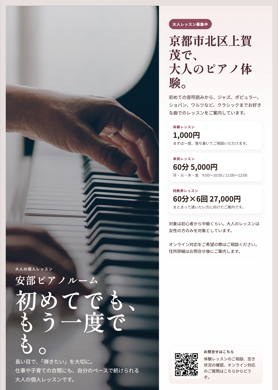
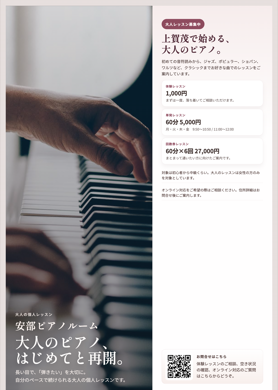
Tighten ad copy line breaks

diff --git a/flyer/abe_piano_ads_2026/abe_piano_ad_concept_02_restart.html b/flyer/abe_piano_ads_2026/abe_piano_ad_concept_02_restart.html
@@ -19,7 +19,7 @@
     .concept-two {
       height: 100%;
       display: grid;
-      grid-template-columns: 0.92fr 0.68fr;
+      grid-template-columns: 0.88fr 0.72fr;
       background: #f7f0ee;
     }
 
@@ -66,8 +66,9 @@
     }
 
     .concept-two .photo-copy .display-title {
-      font-size: 146px;
-      line-height: 0.98;
+      font-size: 96px;
+      line-height: 1.06;
+      letter-spacing: -0.01em;
       color: #fffdfc;
       text-shadow: 0 12px 34px rgba(0, 0, 0, 0.18);
     }
@@ -75,16 +76,16 @@
     .concept-two .quote {
       margin: 0;
       max-width: 820px;
-      font-size: 34px;
-      line-height: 1.72;
+      font-size: 31px;
+      line-height: 1.66;
       color: rgba(255, 247, 243, 0.9);
     }
 
     .concept-two .detail-panel {
-      padding: 86px 64px 74px;
+      padding: 86px 60px 74px;
       display: grid;
       grid-template-rows: auto auto auto auto auto 1fr;
-      gap: 26px;
+      gap: 22px;
       background:
         linear-gradient(180deg, rgba(142, 75, 94, 0.08) 0%, rgba(255, 255, 255, 0.82) 32%),
         #fffaf8;
@@ -105,15 +106,15 @@
     .concept-two .panel-title {
       margin: 0;
       font-family: var(--font-display);
-      font-size: 78px;
-      line-height: 1.18;
+      font-size: 60px;
+      line-height: 1.22;
       color: #512b38;
     }
 
     .concept-two .panel-copy {
       margin: 0;
-      font-size: 29px;
-      line-height: 1.75;
+      font-size: 25px;
+      line-height: 1.62;
       color: #4a3936;
     }
 
@@ -133,7 +134,7 @@
     }
 
     .concept-two .price-label {
-      font-size: 22px;
+      font-size: 20px;
       font-weight: 700;
       letter-spacing: 0.08em;
       color: #8e4b5e;
@@ -141,7 +142,7 @@
 
     .concept-two .price-value {
       margin: 0;
-      font-size: 48px;
+      font-size: 38px;
       line-height: 1.18;
       color: #352724;
       font-weight: 700;
@@ -149,8 +150,8 @@
 
     .concept-two .price-note {
       margin: 0;
-      font-size: 24px;
-      line-height: 1.6;
+      font-size: 22px;
+      line-height: 1.52;
       color: rgba(74, 57, 54, 0.86);
     }
 
@@ -161,10 +162,10 @@
 
     .concept-two .facts p {
       margin: 0;
-      padding: 16px 0;
+      padding: 14px 0;
       border-bottom: 1px solid rgba(142, 75, 94, 0.14);
-      font-size: 27px;
-      line-height: 1.65;
+      font-size: 23px;
+      line-height: 1.54;
     }
 
     .concept-two .qr-card {
@@ -185,14 +186,14 @@
         <div class="photo-copy">
           <p class="art-kicker">大人の個人レッスン</p>
           <h1 class="brand-name">安部ピアノルーム</h1>
-          <h2 class="display-title">初めてでも、<br>もう一度でも。</h2>
-          <p class="quote">長い目で、「弾きたい」を大切に。<br>仕事や子育ての合間にも、自分のペースで続けられる大人の個人レッスンです。</p>
+          <h2 class="display-title">大人のピアノ、<br>はじめてと再開。</h2>
+          <p class="quote">長い目で、「弾きたい」を大切に。<br>自分のペースで続けられる大人の個人レッスンです。</p>
         </div>
       </section>
 
       <aside class="detail-panel">
         <div class="badge">大人レッスン募集中</div>
-        <h2 class="panel-title">京都市北区上賀茂で、<br>大人のピアノ体験。</h2>
+        <h2 class="panel-title">上賀茂で始める、<br>大人のピアノ。</h2>
         <p class="panel-copy">初めての音符読みから、ジャズ、ポピュラー、ショパン、ワルツなど、クラシックまでお好きな曲でのレッスンをご案内しています。</p>
 
         <section class="price-stack">

diff --git a/flyer/abe_piano_ads_2026/abe_piano_ad_concept_03_gentle-pace.html b/flyer/abe_piano_ads_2026/abe_piano_ad_concept_03_gentle-pace.html
@@ -45,14 +45,15 @@
     }
 
     .concept-three .display-title {
-      font-size: 114px;
+      font-size: 104px;
+      line-height: 1.08;
       color: #3f2d2a;
     }
 
     .concept-three .lead {
       margin: 0;
-      font-size: 34px;
-      line-height: 1.78;
+      font-size: 31px;
+      line-height: 1.72;
       color: #4a3936;
     }
 
@@ -76,8 +77,8 @@
 
     .concept-three .offer-note {
       margin: 0;
-      font-size: 28px;
-      line-height: 1.6;
+      font-size: 26px;
+      line-height: 1.56;
     }
 
     .concept-three .details {
@@ -103,8 +104,8 @@
 
     .concept-three .detail-copy {
       margin: 0;
-      font-size: 29px;
-      line-height: 1.68;
+      font-size: 27px;
+      line-height: 1.62;
       color: #4a3936;
     }
 
@@ -184,12 +185,12 @@
       <section class="copy-column">
         <p class="art-kicker">大人の個人レッスン</p>
         <h1 class="brand-name">安部ピアノルーム</h1>
-        <h2 class="display-title">生活に合わせて、<br>歩いたり、立ち止まったり。</h2>
+        <h2 class="display-title">自分のペースで、<br>ピアノを続ける。</h2>
         <p class="lead">長い長い目で、「弾きたい」気持ちを大切に。<br>大人の方がホッとできるような、京都・上賀茂の個人レッスンです。</p>
 
         <div class="offer-lane">
           <div class="offer-pill">体験レッスン 1,000円</div>
-          <p class="offer-note">焦らずゆっくり、自分の練習ペースが掴めるように時間をかけて指導いたします。</p>
+          <p class="offer-note">焦らずゆっくり、練習ペースが掴めるように丁寧にご案内します。</p>
         </div>
 
         <div class="details">
